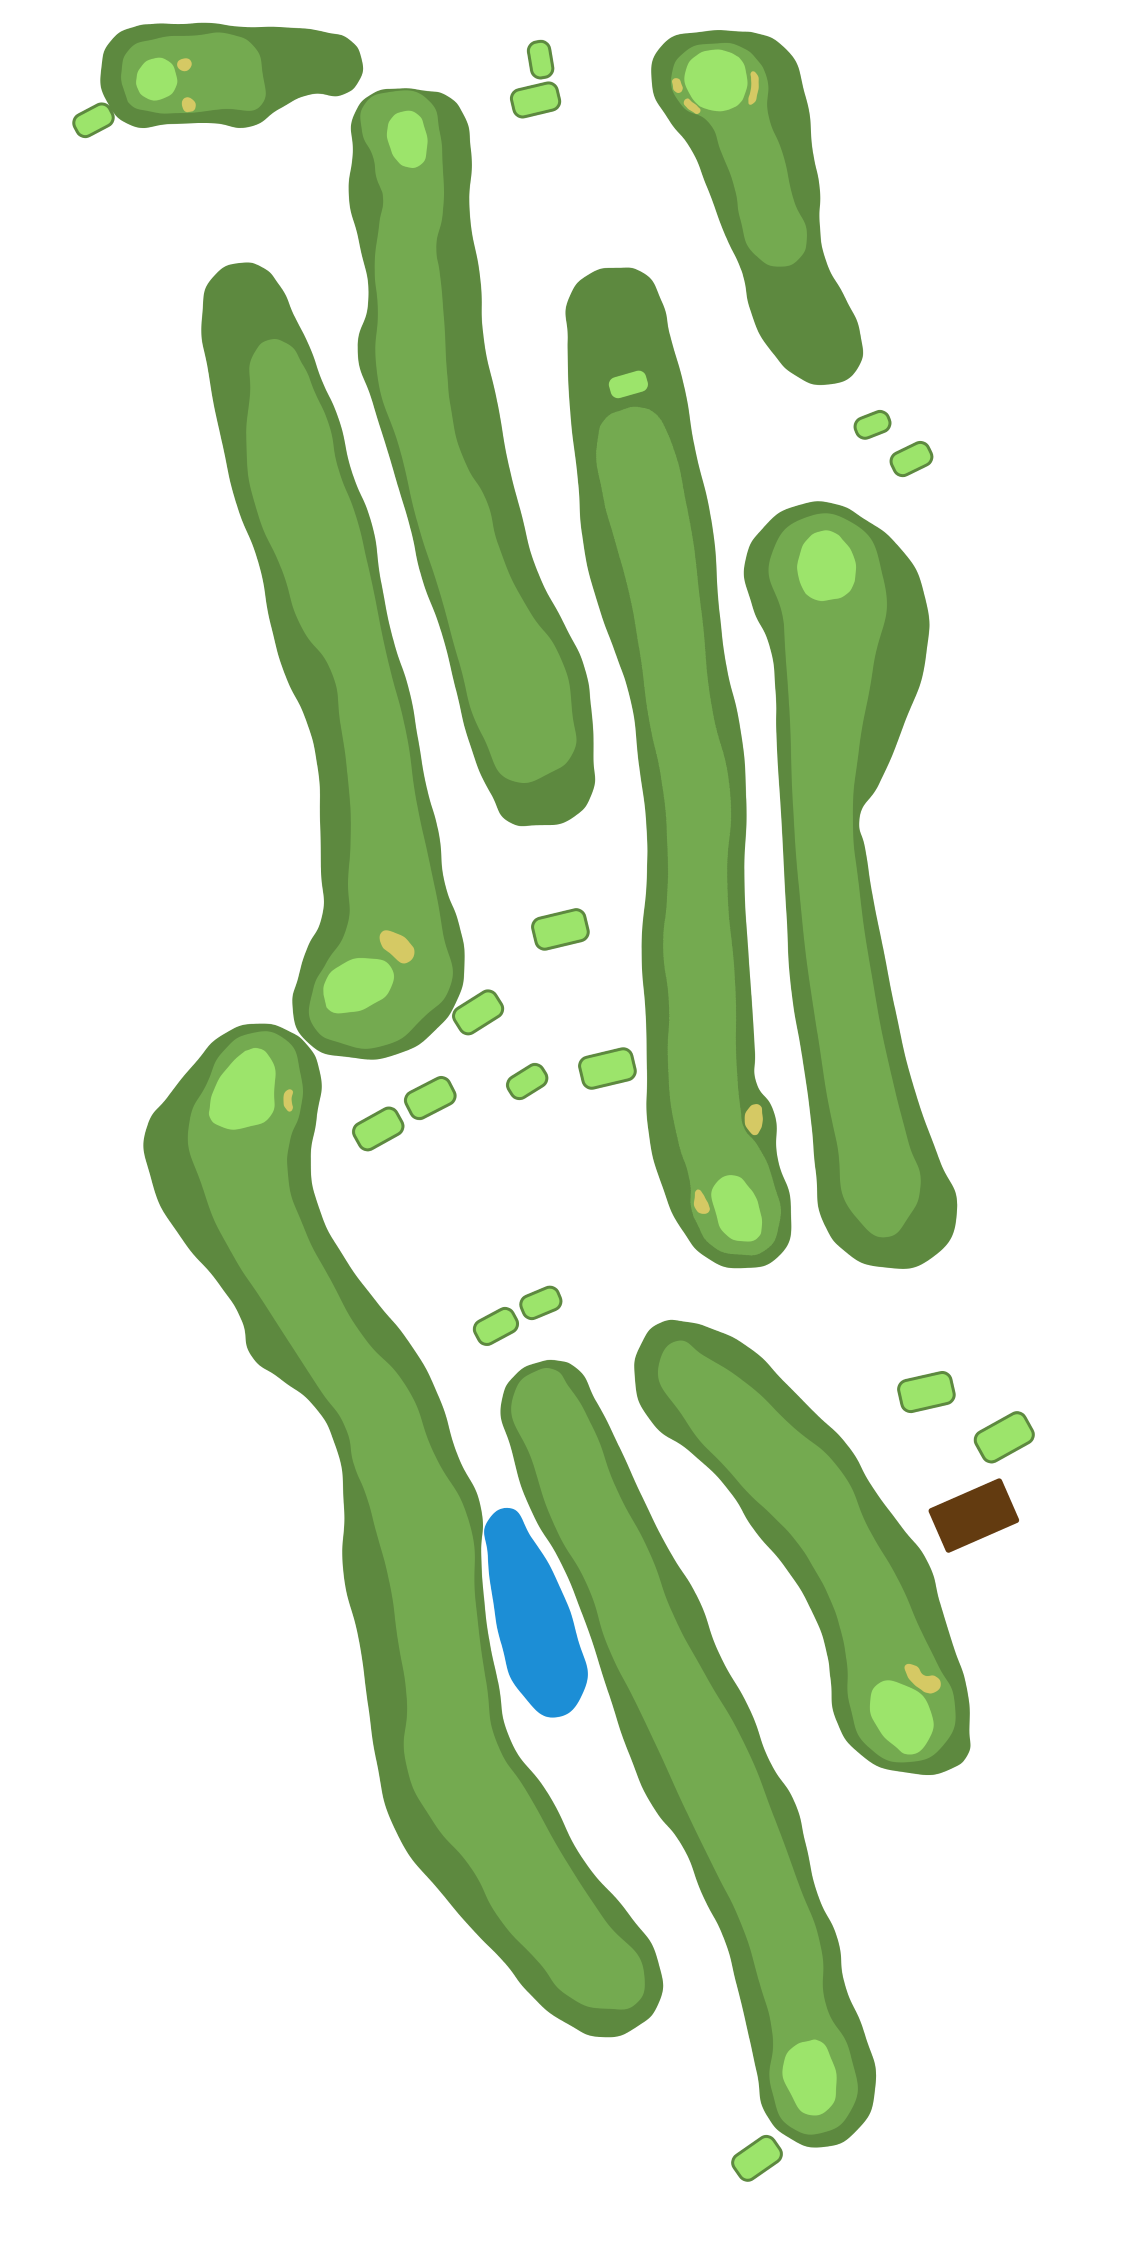
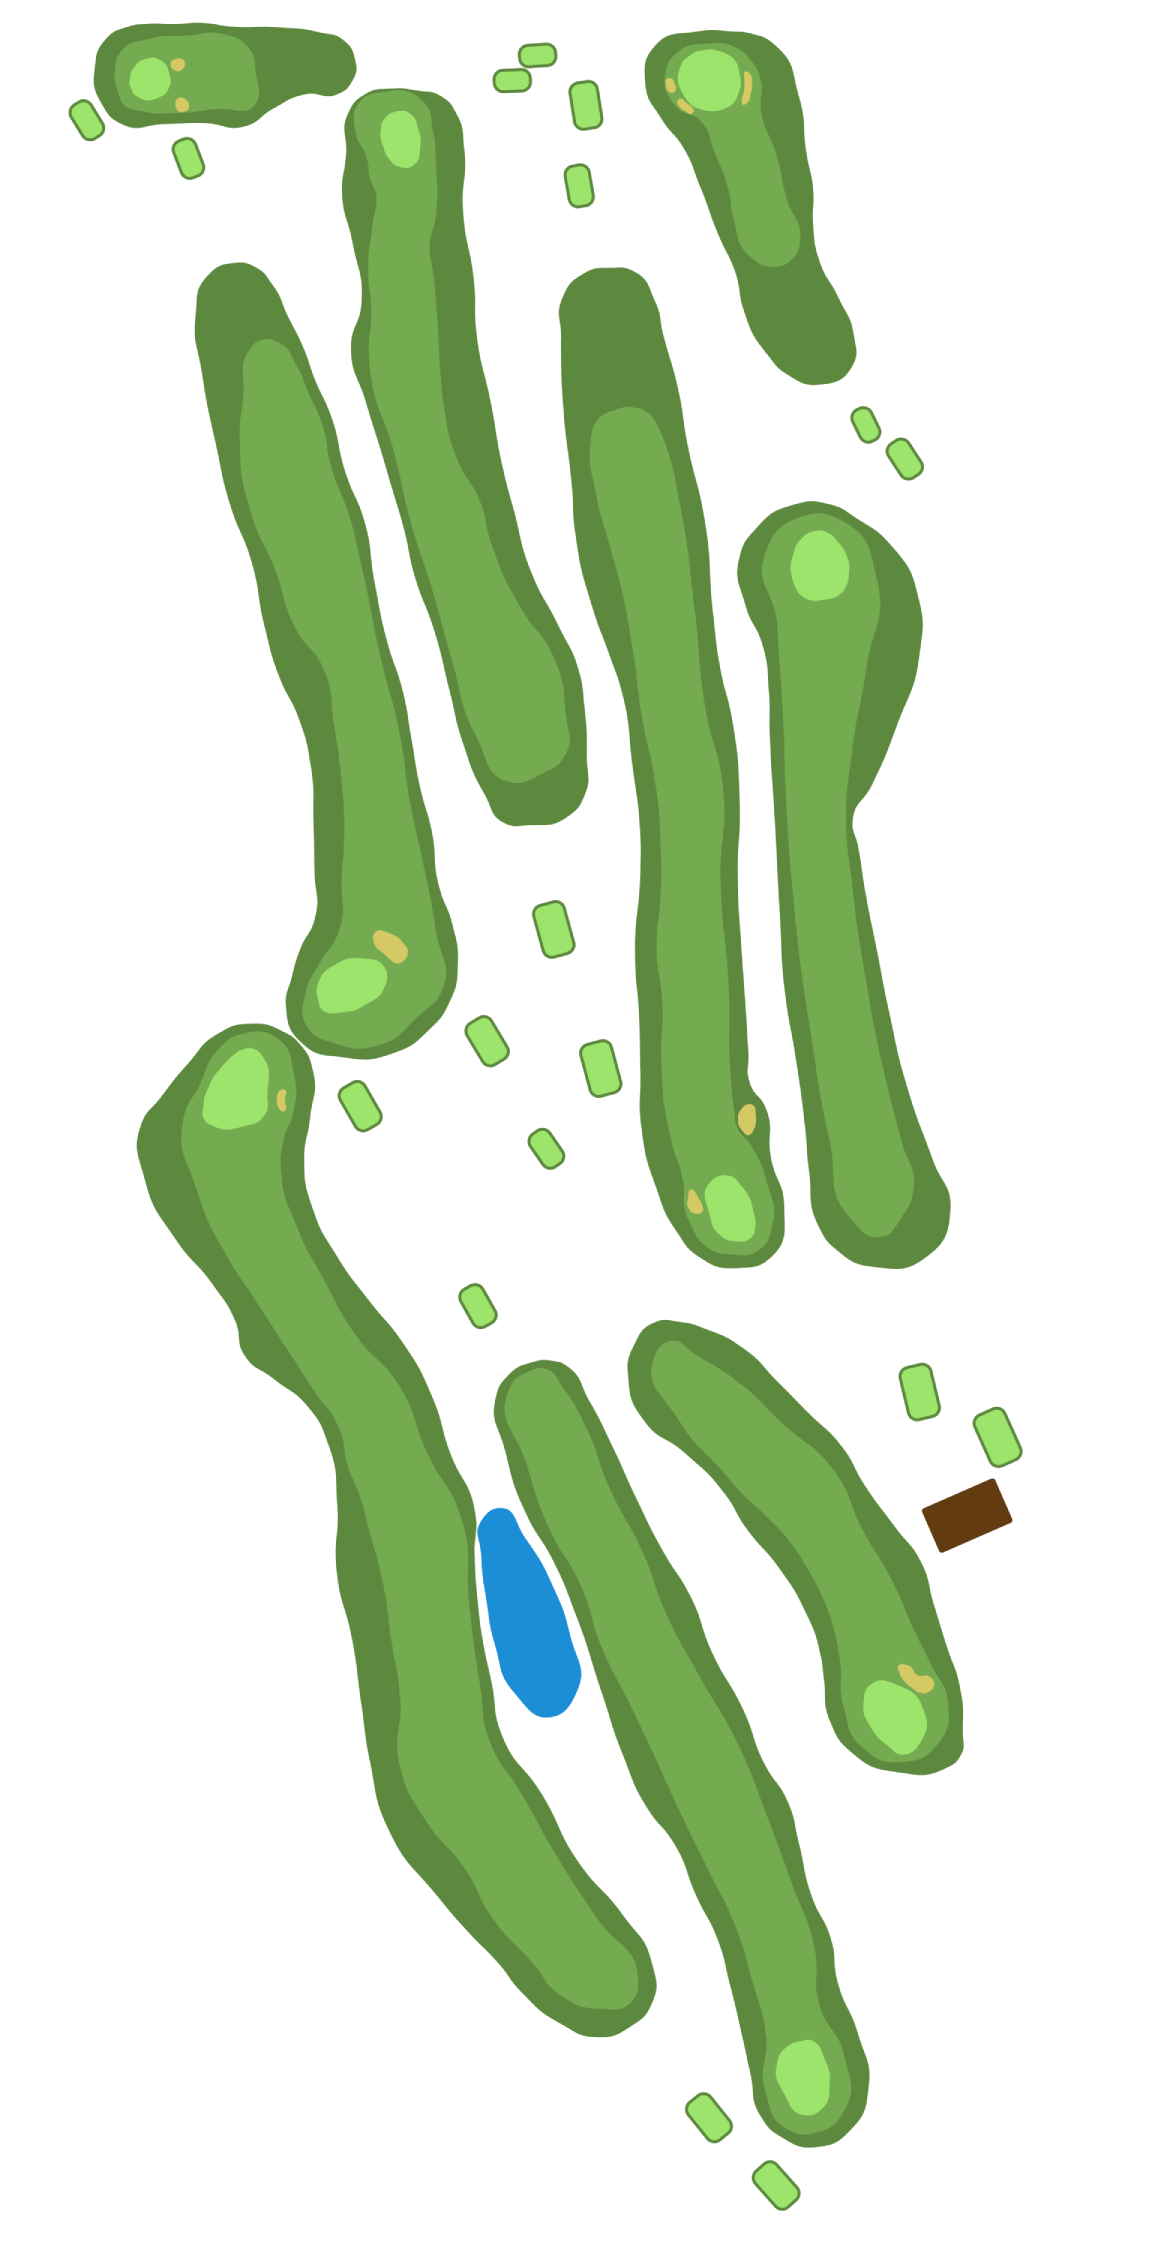
tidying up

Changed region(s): [[0.1237, 0.0, 0.9276, 0.996], [0.0618, 0.0, 0.1855, 0.0934], [0.2164, 0.0, 0.2473, 0.0622]]

diff --git a/src/Pages/Schedule/Schedule.tsx b/src/Pages/Schedule/Schedule.tsx
@@ -2,10 +2,10 @@ import React from 'react';
 import './../../App.css';
 import TitleImage from './Content/TitleImage.jpg'
 import { Box } from '@chakra-ui/react'
-import { Button, ButtonGroup, Flex, Text, Grid, GridItem } from '@chakra-ui/react';
+import { Button, ButtonGroup, Grid, GridItem, Text, Card, CardHeader, CardBody, Stack, Flex, Divider, CardFooter } from '@chakra-ui/react';
 import PageTitle from '../../CommonComponents/PageTitle';
 import { Calendar, momentLocalizer } from 'react-big-calendar';
-import { ToolbarProps, EventPropGetter } from 'react-big-calendar';
+import { ToolbarProps, EventPropGetter, View  } from 'react-big-calendar';
 import moment from 'moment'
 import { MobileWidth } from '../../CommonComponents/Globals';
 import UseWindowSize from '../../CommonComponents/UseWindowSize';
@@ -18,6 +18,8 @@ import {
   Modal, ModalOverlay, ModalContent, ModalHeader,
   ModalBody, ModalCloseButton, useDisclosure,
 } from '@chakra-ui/react';
+import image1 from './Content/Image1.jpg';
+import image2 from './Content/Image2.jpg';
 
 type MyEvent = {
   title: string;
@@ -59,15 +61,21 @@ const womensAorangiEvents: MyEvent[] = WomensAorangiEventsRaw.map(e => ({
 const clubEvents: MyEvent[] = [...mensEvents, ...womensEvents];
 const aorangiEvents: MyEvent[] = [...mensAorangiEvents, ...womensAorangiEvents];
 
+const mensColour = '#267703';
+const womensColour = '#2b6cb0';
+
 const eventStyleGetter: EventPropGetter<MyEvent> = (event) => ({
   style: {
-    backgroundColor:
-      event.gender === 'mens' ? '#267703' :
-      event.gender === 'womens' ? '#2b6cb0' :
-      event.gender === 'mensAorangi' ? '#267703' :
-      '#2b6cb0',
+    backgroundColor: !event.title ? 'transparent' :
+      event.gender === 'mens' ? mensColour :
+      event.gender === 'womens' ? womensColour :
+      event.gender === 'mensAorangi' ? mensColour :
+      womensColour,
     color: 'white',
     borderRadius: '4px',
+    boxShadow: !event.title ? 'none' : undefined,
+    cursor: !event.title ? 'default' : 'pointer',
+    pointerEvents: !event.title ? 'none' : 'auto',
   },
 });
 
@@ -140,11 +148,11 @@ const CustomToolbar: React.FC<CustomToolbarProps> = ({
         <GridItem>
             <Flex gap={6}>
               <Flex align="center" gap={2}>
-                <Box w={3} h={3} borderRadius="sm" bg="#267703" />
+                <Box w={3} h={3} borderRadius="sm" bg={mensColour} />
                 <Text fontSize="sm">Men's Events</Text>
               </Flex>
               <Flex align="center" gap={2}>
-                <Box w={3} h={3} borderRadius="sm" bg="#2b6cb0" />
+                <Box w={3} h={3} borderRadius="sm" bg={womensColour} />
                 <Text fontSize="sm">Women's Events</Text>
               </Flex>
             </Flex>
@@ -156,6 +164,97 @@ const CustomToolbar: React.FC<CustomToolbarProps> = ({
 };
 
 
+const daysOfPlay = (
+  <Card className='daysOfPlayCard'>
+    <CardHeader display='flex' justifyContent='center'>
+      <Text className='textLargeBold'>DAYS OF PLAY</Text>
+    </CardHeader>
+    <CardBody pt={0}>
+      <Stack spacing={2}>
+        <Flex direction="column">
+          <Text className='textLarge'>Satuday - Mens</Text>
+          <Text className='textMedium'>Discs in by 12.30pm - Draw 1.00pm</Text>
+        </Flex>
+        <Divider />
+        <Flex direction="column">
+          <Text className='textLarge'>Tuesday - Ladies</Text>
+          <Text className='textMedium'>Discs in by 10.10am - Start 10.30am</Text>
+          <Text className='textMedium'>Daylight Savings -Discs in by 9.10am - Start 9.30am</Text>
+        </Flex>
+        <Divider />
+        <Flex direction="column">
+          <Text className='textLarge'>Wednesday - Twilight</Text>
+          <Text className='textMedium'>Draw 4.00pm & 6.00pm November - Feburary</Text>
+          <Text className='textMedium'>Draw 1.00pm March - October</Text>
+          <Text className='textMedium'>Report 15 minutes prior to start</Text>
+        </Flex>
+        <Divider />
+        <Flex direction="column">
+          <Text className='textLarge'>Thursday - 9 Hole</Text>
+          <Text className='textMedium'>Draw 9.15am for 9.30am start</Text>
+        </Flex>
+        <Divider />
+      </Stack>
+    </CardBody>
+  </Card>
+);
+
+const scheduleDownload = (
+  <Card className='scheduleDownloadCard'>
+    <CardHeader display='flex' justifyContent='center'>
+      <Text className='textLargeBold'>SCHEDULE DOWNLOAD</Text>
+    </CardHeader>
+    <CardBody pt={0}>
+      <Stack spacing={3}>
+        <Button
+          as="a"
+          href="/Content/MayfieldGolfClubMensCalander2026.pdf"
+          download
+          colorScheme="green"
+          variant="outline"
+          w="100%"
+        >
+          Men's Schedule 2026
+        </Button>
+        <Button
+          as="a"
+          href="/Content/MayfieldGolfLadiesCalendar2026.pdf"
+          download
+          colorScheme="blue"
+          variant="outline"
+          w="100%"
+        >
+          Ladies' Schedule 2026
+        </Button>
+      </Stack>
+    </CardBody>
+  </Card>
+);
+
+const getEventsWithEmptyDays = (events: MyEvent[], currentDate: Date): MyEvent[] => {
+  const result = [...events];
+  for (let i = 0; i <= 6; i++) {
+    const day = moment(currentDate).add(i, 'days').startOf('day');
+    const hasEvents = events.some(e =>
+      moment(e.start).startOf('day').isSame(day)
+    );
+    if (!hasEvents) {
+      result.push({
+        title: '',
+        start: day.toDate(),
+        end: day.toDate(),
+        gender: 'mens', // placeholder, won't be visible
+      });
+    }
+  }
+  return result;
+};
+
+const AgendaEvent: React.FC<{ event: MyEvent }> = ({ event }) => {
+  if (!event.title) return null;
+  return <span>{event.title}</span>;
+};
+
 export default function Schedule() {
   const { width } = UseWindowSize();
   const isDesktopView = width > MobileWidth;
@@ -165,11 +264,12 @@ export default function Schedule() {
 
   const [calendarMode, setCalendarMode] = React.useState<CalendarMode>('club');
 
-  const activeEvents = calendarMode === 'club' ? clubEvents : aorangiEvents;
-
   const [currentDate, setCurrentDate] = React.useState(
     moment().startOf('isoWeek').toDate()
   );
+
+  const rawEvents = calendarMode === 'club' ? clubEvents : aorangiEvents;
+  const activeEvents = getEventsWithEmptyDays(rawEvents, currentDate);
 
   const handleNavigate = (date: Date, view: string, action: string) => {
     if (view === 'agenda') {
@@ -199,9 +299,16 @@ export default function Schedule() {
     onOpen();
   };
 
+  const [currentView, setCurrentView] = React.useState<View>(
+    isDesktopView ? 'month' : 'agenda'
+  );
+
+  const handleView = (view: View) => {
+    setCurrentView(view);
+  };
+
   const MyCalendar = () => (
     <div>
-      <PageTitle mainText='SCHEDULE' image={TitleImage} />
       <div className={isDesktopView ? "schedulePageContainerDesktop" : "schedulePageContainerMobile"}>
         <Calendar
           localizer={localizer}
@@ -214,10 +321,19 @@ export default function Schedule() {
                 onCalendarModeChange={setCalendarMode}
               />
             ),
+            agenda: {
+              event: AgendaEvent,
+            },
           }}
           startAccessor="start"
           endAccessor="end"
-          style={{ height: isDesktopView ? 1000 : 800 }}
+          view={currentView}
+          onView={handleView}
+          style={{
+            height: currentView === 'agenda'
+              ? 'auto'
+              : isDesktopView ? 1000 : 800
+          }}
           views={['month', 'agenda']}
           defaultView={isDesktopView ? 'month' : 'agenda'}
           eventPropGetter={eventStyleGetter}
@@ -256,10 +372,10 @@ export default function Schedule() {
                   borderRadius="sm"
                   flexShrink={0}
                   bg={
-                    event.gender === 'mens' ? '#267703' :
-                    event.gender === 'womens' ? '#2b6cb0' :
-                    event.gender === 'mensAorangi' ? '#267703' :
-                    '#2b6cb0'
+                    event.gender === 'mens' ? mensColour :
+                    event.gender === 'womens' ? womensColour :
+                    event.gender === 'mensAorangi' ? mensColour :
+                    womensColour
                   }
                 />
                 <Text>{event.title}</Text>
@@ -272,6 +388,31 @@ export default function Schedule() {
   );
 
   return (
-    <div>{MyCalendar()}</div>
+    <div>
+      <PageTitle mainText='SCHEDULE' image={TitleImage} />
+      {isDesktopView ? (
+        <div>
+          {MyCalendar()}
+          <div style={{ maxWidth: '900px', margin: '0 auto', paddingBottom: '36px' }}>
+            <Grid templateColumns='repeat(2, 1fr)' gap={6}>
+              <GridItem colSpan={1} display='flex'>
+                {daysOfPlay}
+              </GridItem>
+              <GridItem colSpan={1} display='flex'>
+                {scheduleDownload}
+              </GridItem>
+            </Grid>
+          </div>
+        </div>
+      ) : (
+        <div className='homePageContainerMobile'>
+          {MyCalendar()}
+          <img src={image1} />
+          {daysOfPlay}
+          <img src={image2} />
+          {scheduleDownload}
+        </div>
+      )}
+    </div>
   );
 }

diff --git a/src/Pages/Course/Components/CourseMap.tsx b/src/Pages/Course/Components/CourseMap.tsx
@@ -14,15 +14,15 @@ export default function CourseMap() {
     <div className='courseMap'>
       <div className="courseMapBox">
           <img src={CourseMapImage} className={isDesktopView ? 'courseMapDesktop' : 'courseMapMobile'} />
-          <HoleButton top="40%" left={isDesktopView ? "73%" : "73%"} transform="translate(-50%, -50%)" label="1"/>
-          <HoleButton top="9%" left={isDesktopView ? "67%" : "67.5%"} transform="translate(-50%, -50%)" label="2"/>
-          <HoleButton top="35%" left={isDesktopView ? "61.5%" : "61.5%"} transform="translate(-50%, -50%)" label="3"/>
-          <HoleButton top="22%" left={isDesktopView ? "39%" : "39.5%"} transform="translate(-50%, -50%)" label="4"/>
-          <HoleButton top="4%" left={isDesktopView ? "20%" : "22%"} transform="translate(-50%, -50%)" label="5"/>
-          <HoleButton top="31%" left={isDesktopView ? "32%" : "32%"} transform="translate(-50%, -50%)" label="6"/>
-          <HoleButton top="75%" left={isDesktopView ? "58.5%" : "59%"} transform="translate(-50%, -50%)" label="7"/>
-          <HoleButton top="65%" left={isDesktopView ? "35%" : "35%"} transform="translate(-50%, -50%)" label="8"/>
-          <HoleButton top="68%" left={isDesktopView ? "73%" : "73%"} transform="translate(-50%, -50%)" label="9"/>
+          <HoleButton top="40%" left={isDesktopView ? "71.5%" : "71.5%"} transform="translate(-50%, -50%)" label="1"/>
+          <HoleButton top="9%" left={isDesktopView ? "66%" : "65.5%"} transform="translate(-50%, -50%)" label="2"/>
+          <HoleButton top="35%" left={isDesktopView ? "59.8%" : "59.8%"} transform="translate(-50%, -50%)" label="3"/>
+          <HoleButton top="22%" left={isDesktopView ? "38%" : "38%"} transform="translate(-50%, -50%)" label="4"/>
+          <HoleButton top="4%" left={isDesktopView ? "20%" : "20%"} transform="translate(-50%, -50%)" label="5"/>
+          <HoleButton top="31%" left={isDesktopView ? "31%" : "31%"} transform="translate(-50%, -50%)" label="6"/>
+          <HoleButton top="75%" left={isDesktopView ? "57%" : "57%"} transform="translate(-50%, -50%)" label="7"/>
+          <HoleButton top="65%" left={isDesktopView ? "34%" : "34%"} transform="translate(-50%, -50%)" label="8"/>
+          <HoleButton top="68%" left={isDesktopView ? "71.5%" : "71.5%"} transform="translate(-50%, -50%)" label="9"/>
       </div>
     </div>
   );

diff --git a/src/index.css b/src/index.css
@@ -348,7 +348,7 @@ body {
 
 .schedulePageContainerMobile {
   padding-top: 30px;
-  padding-bottom: 100px;
+  padding-bottom: 30px;
   right: 0px;
   left: 0px;
   margin-left: auto;
@@ -448,6 +448,15 @@ th.rbc-header:nth-child(2) {
   color: rgb(98, 98, 98);
 }
 
+.daysOfPlayCard,
+.scheduleDownloadCard {
+  width: 100%;
+  max-width: 400px;
+  margin: 16px auto;
+  border-radius: 12px !important;
+  box-shadow: 0 4px 12px rgba(0, 0, 0, 0.15) !important;
+  flex: 1;
+}
 
 /******************** Common **********************/
 

diff --git a/src/Pages/Course/Components/CourseTableLong.tsx b/src/Pages/Course/Components/CourseTableLong.tsx
@@ -52,7 +52,7 @@ export default function CourseTableLong() {
                     <h2>
                     <AccordionButton>
                         <Box as='span' flex='1' textAlign='left'>
-                            Mens
+                            <Text className='textLarge'>Mens</Text>
                         </Box>
                         <AccordionIcon />
                     </AccordionButton>
@@ -101,7 +101,7 @@ export default function CourseTableLong() {
                     <h2>
                         <AccordionButton>
                             <Box as='span' flex='1' textAlign='left'>
-                                Womens
+                                <Text className='textLarge'>Womens</Text>
                             </Box>
                             <AccordionIcon />
                         </AccordionButton>

diff --git a/src/Pages/Home/Home.tsx b/src/Pages/Home/Home.tsx
@@ -88,7 +88,7 @@ const greenFeesSection = (
     </CardBody>
     <CardFooter display='flex' justifyContent='center' pt={0}>
       <Stack spacing={2} textAlign='center'>
-        <Text className='textMedium'>Please fill out a Green Fee Ticket and carry this with you. Payment can be made by Cash via the Green Fees Box or by Online Banking. Payments can be made to:</Text>
+        <Text className='textMedium'>Please fill out a Green Fee Ticket and carry this with you. Payment can be made by cash via the Green Fees Box or by Online Banking. Payments can be made to:</Text>
         <Text className='textMedium'>Mayfield Golf Club</Text>
         <Text className='textMedium'>03-1903-0038936-10</Text>
         <Text className='textMedium'>Please use your Green Fee Ticket Number as reference.</Text>

diff --git a/src/Main.tsx b/src/Main.tsx
@@ -2,7 +2,6 @@ import React from 'react';
 import './App.css';
 import { AnimatePresence, motion } from "motion/react"
 import Home from './Pages/Home/Home';
-import Contact from './Pages/Contact/Contact';
 import Schedule from './Pages/Schedule/Schedule';
 import Course from './Pages/Course/Course';
 import PageHeader from './CommonComponents/PageHeader';